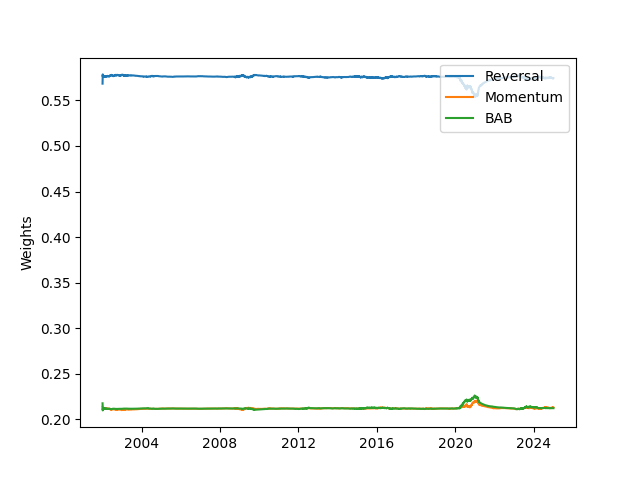
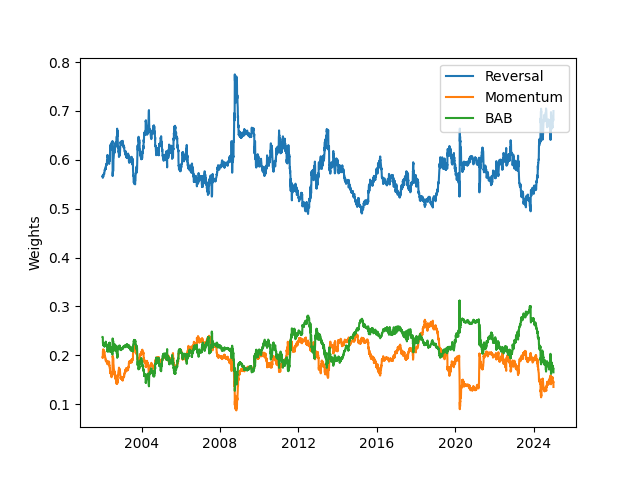
Updated orthogonal sharpe method.

diff --git a/experiments/orthogonal_sharpe.py b/experiments/orthogonal_sharpe.py
@@ -21,7 +21,7 @@ returns = (
     .sort('date')
 )
 
-# Compute signal weights using QR factorization on a rolling window
+# Compute signal weights using analytical MVE on a rolling window
 dates = returns['date'].to_list()
 R_full = returns.select(signal_names).to_numpy()
 
@@ -29,29 +29,25 @@ rows = []
 for t in range(WINDOW, len(R_full)):
     R_window = R_full[t - WINDOW : t]
 
-    Q, _ = np.linalg.qr(R_window)
+    mu = R_window.mean(axis=0)
+    Sigma = np.cov(R_window, rowvar=False)
 
-    means = Q.mean(axis=0)
-    stds = Q.std(axis=0, ddof=1)
-    sharpes = means / stds
+    weights = np.linalg.solve(Sigma, mu)
 
-    # Normalize sharpes
-    sharpes = sharpes / sharpes.sum()
-    # Softmax weights
-    exp_s = np.exp(sharpes)
+    # Normalize
+    weights = weights / weights.sum()
+
+    # Softmax
+    exp_s = np.exp(weights)
     weights = exp_s / exp_s.sum()
 
     rows.append(
-        {
-            'date': dates[t]
-        } 
-        | 
-        {
-            f'w_{name}': weights[i]
-            for i, name in enumerate(signal_names)
-        }
+        {'date': dates[t]}
+        |
+        {f'w_{name}': weights[i] for i, name in enumerate(signal_names)}
     )
 
+# Combine and smooth weights
 signal_weights = pl.DataFrame(rows)
 signal_weights = (
     signal_weights
@@ -61,6 +57,7 @@ signal_weights = (
     )
 )
 
+# Save results
 folder_path = Path("results/orthogonal_sharpe")
 folder_path.mkdir(exist_ok=True, parents=True)
 
